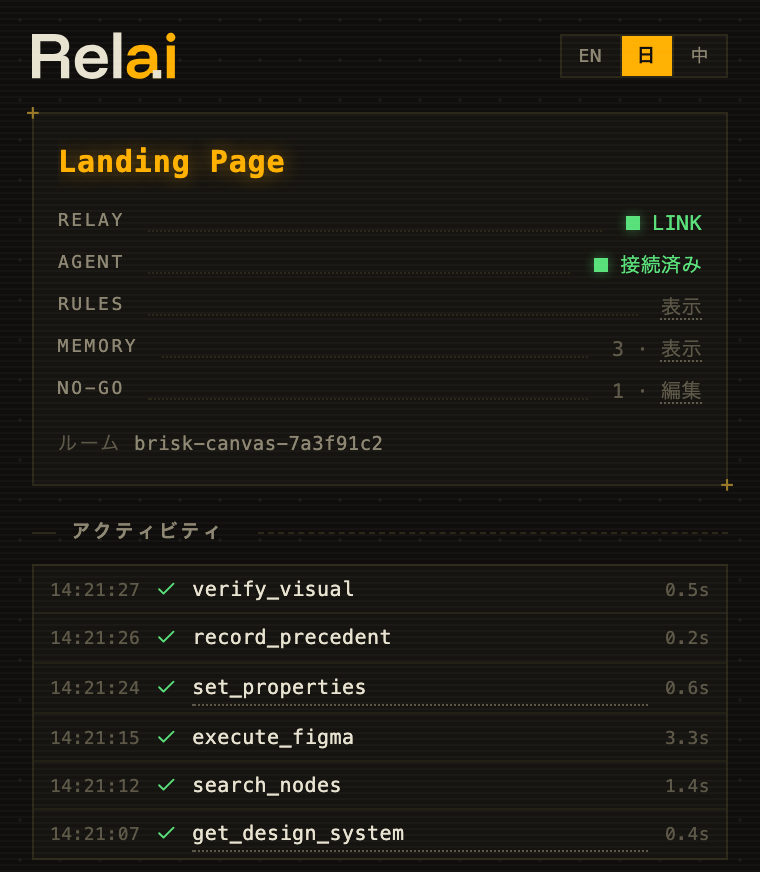
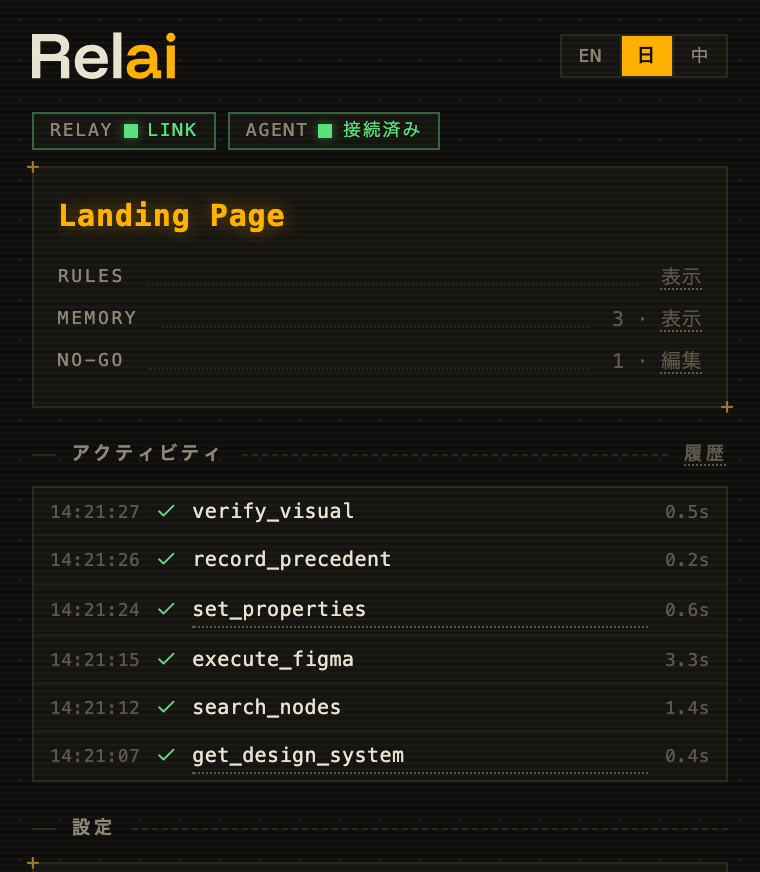
Release 0.5.0
Claude-Session: https://claude.ai/code/session_01LE9DxpFc66NXBEVTWs7co9

diff --git a/site/src/lib/translations.ts b/site/src/lib/translations.ts
@@ -1,6 +1,6 @@
 import type { Language } from './i18n';
 
-export const VERSION = 'v0.4.2';
+export const VERSION = 'v0.5.0';
 
 export const translations = {
   en: {
@@ -64,12 +64,12 @@ export const translations = {
     craft: {
       eyebrow: 'CRAFT',
       title: 'Why the results come out better.',
-      body: 'Connecting an AI to Figma is the easy part. Most of Relai is the unglamorous work that decides whether the output is production-grade or plausible-looking noise — and eighty-seven tests written to break it gate every release that touches logic.',
+      body: 'Connecting an AI to Figma is the easy part. Most of Relai is the unglamorous work that decides whether the output is production-grade or plausible-looking noise — and ninety-eight tests written to break it gate every release that touches logic.',
       items: [
-        { kicker: 'pitfalls', tag: 'RAW ERROR + HINT', title:'The minefield, mapped', body: 'The Plugin API is full of traps. Relai ships 25 of them, learned in production — trip one, and the raw error comes back with the fix attached; the same registry becomes the cheat sheet the AI reads before writing code.', artifact: '✗ cannot write to node with unloaded font\n  hint: await figma.loadFontAsync(node.fontName)\n        before editing text — new TextNodes\n        default to Inter Regular' },
+        { kicker: 'pitfalls', tag: 'RAW ERROR + HINT', title:'The minefield, mapped', body: 'The Plugin API is full of traps. Relai ships 30 of them, learned in production — trip one, and the raw error comes back with the fix attached; the same registry becomes the cheat sheet the AI reads before writing code.', artifact: '✗ cannot write to node with unloaded font\n  hint: await figma.loadFontAsync(node.fontName)\n        before editing text — new TextNodes\n        default to Inter Regular' },
         { kicker: 'verification', tag: 'RECEIPT', title:'It checks its own work', body: 'After a write, the AI looks: screenshot, compare against intent, re-read the result. The difference between “done” and “actually done”.', rows: ['set_properties · 24 nodes · 0.6s ✓', 'export_asset · 1 png ✓', 'verify_visual · match ✓'] },
         { kicker: 'conventions', tag: 'CARRIED BY THE FILE', title:'Your system comes first', body: 'Before building, the AI inventories the file — and the rules you store in the file itself ride into its context: naming, token routing, no-go zones, your precedents. It builds from your components, not near-copies.', artifact: '# conventions — carried by the file\n· colors route through Theme tokens, no raw hex\n· props camelCase · states hovered/pressed/…\n· never detach; reuse atoms from /components\n# memory — precedents, e.g.\n· "KARTE Badge border=1 is intent"' },
-        { kicker: 'navigation', tag: 'TOOL RESULT', title:'A map, not a maze', body: 'Thirty-two tools, each answering with a summary, honest notes on what got truncated, and a recommended next step. The AI arrives briefed, too — eleven skills as MCP prompts, your own from `~/.figma-relai/skills`, the whole contract as a `manifest` regenerated from running code, and one `doctor` command that diagnoses the chain end to end.', artifact: '{\n  "summary": "3 pages · 45 component sets",\n  "note": "components truncated (top 40)",\n  "recommended_next": "get_node_details\n    on the set you plan to extend"\n}' }
+        { kicker: 'navigation', tag: 'TOOL RESULT', title:'A map, not a maze', body: 'Thirty-three tools, each answering with a summary, honest notes on what got truncated, and a recommended next step. The AI arrives briefed, too — eleven skills as MCP prompts, your own from `~/.figma-relai/skills`, the whole contract as a `manifest` regenerated from running code, and one `doctor` command that diagnoses the chain end to end.', artifact: '{\n  "summary": "3 pages · 45 component sets",\n  "note": "components truncated (top 40)",\n  "recommended_next": "get_node_details\n    on the set you plan to extend"\n}' }
       ]
     },
     outlook: {
@@ -207,12 +207,12 @@ export const translations = {
     craft: {
       eyebrow: 'CRAFT',
       title: '結果の質は、地味な作り込みで決まる。',
-      body: 'AIをFigmaにつなぐこと自体は簡単です。Relaiの中身の大半は、出力を「それっぽい何か」で終わらせないための、目立たない作り込みです。ロジックに触れるリリースは、87項目の意地悪な検査が門番をしています。',
+      body: 'AIをFigmaにつなぐこと自体は簡単です。Relaiの中身の大半は、出力を「それっぽい何か」で終わらせないための、目立たない作り込みです。ロジックに触れるリリースは、98項目の意地悪な検査が門番をしています。',
       items: [
-        { kicker: 'pitfalls', tag: 'RAW ERROR + HINT', title:'落とし穴には、地図がある。', body: 'Plugin APIは落とし穴だらけです。Relaiには実際の運用で踏んだ25件が同梱されています。踏めば、生のエラーに解決策が添えられて返ってきます。同じ一覧は、AIがコードを書く前に読むチートシートにもなります。', artifact: '✗ cannot write to node with unloaded font\n  hint: await figma.loadFontAsync(node.fontName)\n        before editing text — new TextNodes\n        default to Inter Regular' },
+        { kicker: 'pitfalls', tag: 'RAW ERROR + HINT', title:'落とし穴には、地図がある。', body: 'Plugin APIは落とし穴だらけです。Relaiには実際の運用で踏んだ30件が同梱されています。踏めば、生のエラーに解決策が添えられて返ってきます。同じ一覧は、AIがコードを書く前に読むチートシートにもなります。', artifact: '✗ cannot write to node with unloaded font\n  hint: await figma.loadFontAsync(node.fontName)\n        before editing text — new TextNodes\n        default to Inter Regular' },
         { kicker: 'verification', tag: 'RECEIPT', title:'書いたら、見て確かめる。', body: '書き込んだら、見て確かめます。スクリーンショット、意図との見比べ、結果の読み直し。「終わった」と「本当に終わった」の差は、ここで生まれます。', rows: ['set_properties · 24 nodes · 0.6s ✓', 'export_asset · 1 png ✓', 'verify_visual · match ✓'] },
         { kicker: 'conventions', tag: 'CARRIED BY THE FILE', title:'まず、手元のシステムから。', body: '構築の前に、AIはまずファイルを調べます。ファイル自身に保存されたルールも、そのままコンテキストに入ります。命名、トークンの通し方、立入禁止、下した判例。似た見た目の描き直しではなく、手元のコンポーネントから組み立てます。', artifact: '# conventions — carried by the file\n· colors route through Theme tokens, no raw hex\n· props camelCase · states hovered/pressed/…\n· never detach; reuse atoms from /components\n# memory — precedents, e.g.\n· "KARTE Badge border=1 is intent"' },
-        { kicker: 'navigation', tag: 'TOOL RESULT', title:'結果には、次の一手がついてくる。', body: '32個のツールは、どれも要約・省略箇所の正直な注記・推奨される次の一手を添えて答えます。しかもAIは、下調べ済みで現場に来ます。11本のスキルがMCPプロンプトとして同梱され、自作スキルは`~/.figma-relai/skills`から読み込まれ、契約の全体は実行コードから再生成される`manifest`になっています。調子が悪ければ、`doctor`一発で診断です。', artifact: '{\n  "summary": "3 pages · 45 component sets",\n  "note": "components truncated (top 40)",\n  "recommended_next": "get_node_details\n    on the set you plan to extend"\n}' }
+        { kicker: 'navigation', tag: 'TOOL RESULT', title:'結果には、次の一手がついてくる。', body: '33個のツールは、どれも要約・省略箇所の正直な注記・推奨される次の一手を添えて答えます。しかもAIは、下調べ済みで現場に来ます。11本のスキルがMCPプロンプトとして同梱され、自作スキルは`~/.figma-relai/skills`から読み込まれ、契約の全体は実行コードから再生成される`manifest`になっています。調子が悪ければ、`doctor`一発で診断です。', artifact: '{\n  "summary": "3 pages · 45 component sets",\n  "note": "components truncated (top 40)",\n  "recommended_next": "get_node_details\n    on the set you plan to extend"\n}' }
       ]
     },
     outlook: {
@@ -350,12 +350,12 @@ export const translations = {
     craft: {
       eyebrow: 'CRAFT',
       title: '结果更好，是有原因的。',
-      body: '把AI接到Figma上并不难。Relai的大部分工作，是那些决定输出到底是生产级、还是"看着像回事的噪音"的朴素功夫 —— 87道故意找茬的检查,守在每次触及逻辑的发布之前。',
+      body: '把AI接到Figma上并不难。Relai的大部分工作，是那些决定输出到底是生产级、还是"看着像回事的噪音"的朴素功夫 —— 98道故意找茬的检查,守在每次触及逻辑的发布之前。',
       items: [
-        { kicker: 'pitfalls', tag: 'RAW ERROR + HINT', title:'雷区，已绘制成图。', body: 'Plugin API处处是坑。Relai内置了25条生产环境踩出来的 —— 一旦踩中,原始报错连同解法一起返回;同一份清单,就是AI写代码前要读的速查表。', artifact: '✗ cannot write to node with unloaded font\n  hint: await figma.loadFontAsync(node.fontName)\n        before editing text —— new TextNodes\n        default to Inter Regular' },
+        { kicker: 'pitfalls', tag: 'RAW ERROR + HINT', title:'雷区，已绘制成图。', body: 'Plugin API处处是坑。Relai内置了30条生产环境踩出来的 —— 一旦踩中,原始报错连同解法一起返回;同一份清单,就是AI写代码前要读的速查表。', artifact: '✗ cannot write to node with unloaded font\n  hint: await figma.loadFontAsync(node.fontName)\n        before editing text —— new TextNodes\n        default to Inter Regular' },
         { kicker: 'verification', tag: 'RECEIPT', title:'自己的活，自己验。', body: '写完就看:截图、对照意图、重读结果。"做完了"和"真的做完了"的差别,就在这里。', rows: ['set_properties · 24 nodes · 0.6s ✓', 'export_asset · 1 png ✓', 'verify_visual · match ✓'] },
         { kicker: 'conventions', tag: 'CARRIED BY THE FILE', title:'先学你的系统。', body: '动手之前,AI先盘点文件 —— 你存在文件里的规矩直接进入它的上下文:命名、Token路径、禁区、你的判例。它从你的组件出发构建,而不是照着画一个像的。', artifact: '# conventions —— carried by the file\n· colors route through Theme tokens, no raw hex\n· props camelCase · states hovered/pressed/…\n· never detach; reuse atoms from /components\n# memory — precedents, e.g.\n· "KARTE Badge border=1 is intent"' },
-        { kicker: 'navigation', tag: 'TOOL RESULT', title:'给的是路标，不是迷宫。', body: '32个工具,每个都带着摘要、对截断之处的诚实标注、建议的下一步来回答。而且AI是备过课进场的 —— 11份skill作为MCP prompts内置,你自己写的从`~/.figma-relai/skills`装载,整套契约是随构建从运行代码重新生成的`manifest`;不对劲时,一条`doctor`命令端到端诊断。', artifact: '{\n  "summary": "3 pages · 45 component sets",\n  "note": "components truncated (top 40)",\n  "recommended_next": "get_node_details\n    on the set you plan to extend"\n}' }
+        { kicker: 'navigation', tag: 'TOOL RESULT', title:'给的是路标，不是迷宫。', body: '33个工具,每个都带着摘要、对截断之处的诚实标注、建议的下一步来回答。而且AI是备过课进场的 —— 11份skill作为MCP prompts内置,你自己写的从`~/.figma-relai/skills`装载,整套契约是随构建从运行代码重新生成的`manifest`;不对劲时,一条`doctor`命令端到端诊断。', artifact: '{\n  "summary": "3 pages · 45 component sets",\n  "note": "components truncated (top 40)",\n  "recommended_next": "get_node_details\n    on the set you plan to extend"\n}' }
       ]
     },
     outlook: {

diff --git a/packages/relay/src/index.ts b/packages/relay/src/index.ts
@@ -14,7 +14,7 @@ const PORT = parseInt(process.env.PORT || "9055");
 const HOST = process.env.HOST || "127.0.0.1";
 
 const core = new RelayCore<ServerWebSocket<unknown>>({
-  version: "0.4.2",
+  version: "0.5.0",
   log: (msg) => console.log(msg),
 });
 

diff --git a/CHANGELOG.md b/CHANGELOG.md
@@ -1,5 +1,17 @@
 # Changelog
 
+## 0.5.0
+
+The law gets a home. One designer usually runs one product; its files share the same rules — and Figma silently discards file-carried law on every branch→main merge. This release answers both.
+
+- **Kits** (`manage_rulesets`, the 33rd tool). Save a file's rules under a name; other files follow it. A followed file that opens with its law wiped heals — one click, or automatically with the kit's auto-restore switch on. Drift never resolves itself: update (kit→file) and publish (file→kit) both wait for you. Promote a single precedent into the kit (↑ in the MEMORY list) and every follower inherits it. Export/import as a markdown package. Choosing is exclusive and visible: a radio list with "follow none" as a first-class option, the followed kit unfolding in place.
+- **The file speaks in moments, not vocabulary.** Three cards signed `FILE ›`, built like the approval card: "My rules are gone — put them back from “gin”?" · "My rules differ from “gin” now." · "I have no rules yet. Follow “gin”?" One question at a time, in your words, using the kit's name instead of concepts. The panel's steady state teaches nothing and needs nothing learned.
+- **Session history.** Every write lands in a per-machine timeline (last 500): grouped by session, click a row to jump to the layer, bulk operations flagged. "What did the agent touch that day" survives past the live feed.
+- **Rule proposals.** When the agent reads an enforceable sentence in your conventions ("never touch the Cover page"), it can propose the promotion — a card with the quoted reason; the guard turns on only when you accept, and the acceptance is recorded as a precedent.
+- **Panel reorganized by who the information belongs to.** Session plumbing became two quiet pills (RELAY · AGENT); the file card carries the file's name and its law, with the rules' origin as a label on the RULES row (`RULES  gin · view`); the room moved next to Disconnect. Empty rules now show "add" with guidance instead of hiding the row. A gentle check-up reminder appears when the last full audit is over a week old.
+- **CJK input fix:** the IME's conversion-Enter no longer triggers save in the kit and precedent inputs.
+- Skills teach the new machinery in-band; `manage_variables action:snapshot` pairs with kits for before/after accounting.
+
 ## 0.4.2
 
 Everything in this release was harvested from one long day of real design-system surgery — each fix is a scar with a story.

diff --git a/README.ja.md b/README.ja.md
@@ -83,6 +83,8 @@ file       precedent attached — "…is on purpose" · the edit backs off
 
 パネルの MEMORY 行に全件が並び、いつでも削除できます。黙って記録されるものはありません。
 
+**キット。**ひとりのデザイナーはたいてい一つのプロダクトを見ていて、そのファイルたちは同じ規約を共有します。このファイルの規約に名前を付けてキットとして保存すれば、他のファイルがフォローできます。Figma はブランチのマージでファイル持ちの規約を落としますが、フォロー中のキットがそれを戻します。ワンクリックで、あるいはそのキットの自動復元をオンにしておけば自動で。
+
 **立入禁止(NO-GO)**はページごと囲います。ブランドのマスター、法務、もうピクセル単位で完成しているあのページ。囲ったページへの書き込みは実行の手前で拒否され、理由が記録に残ります。囲いを編集できるのはデザイナーだけです。
 
 **確認**は 4 段階のレベルです(OPEN · RISK · BULK · ALL)。既定の RISK では、危険な操作だけが確認を求めます(変数/スタイルの削除、detach、flatten)。それ以外は止まりません。パネルから決めるもの。AI には動かせません。
@@ -98,7 +100,7 @@ file       precedent attached — "…is on purpose" · the edit backs off
 ```
 AI (any MCP client)
   ↕ stdio
-MCP server            32 tools · analysis · verification
+MCP server            33 tools · analysis · verification
   (embedded relay)    WebSocket room hub on 127.0.0.1:9055
   ↕ WebSocket
 Figma plugin          executes Plugin API calls
@@ -118,7 +120,7 @@ Figma plugin          executes Plugin API calls
 | 読み取り | `get_node_data`(summary / tree / full / css / variables) |
 | 作成・編集 | `create_node` · `set_properties` · `set_text` · `edit_structure` |
 | コンポーネント | `manage_components` |
-| デザインシステム | `get_design_system` · `manage_variables` · `manage_styles` · `import_from_library` · `manage_conventions` |
+| デザインシステム | `get_design_system` · `manage_variables` · `manage_styles` · `import_from_library` · `manage_conventions` · `manage_rulesets` |
 | ドキュメント | `manage_pages` · `navigate` |
 | アセット | `export_asset` · `add_image` |
 | 注釈 | `annotate` |

diff --git a/README.md b/README.md
@@ -83,6 +83,8 @@ file       precedent attached — "…is on purpose" · the edit backs off
 
 The panel's Memory row lists every entry; delete any of them any time. Nothing is recorded silently.
 
+**Kits.** One designer usually runs one product, and its files share the same law. Save this file’s rules under a name and other files can follow it. Figma drops file-carried law on branch merges; a followed kit puts it back — one click, or automatically if you flip that kit’s auto-restore on.
+
 **AI no-go zones** fence off whole pages — brand masters, legal, the one that is already pixel-perfect. Writes into a guarded page are rejected before they run, with the reason on the receipt, and only you edit the guard list.
 
 **Confirmation** is one level with four stops — OPEN · RISK · BULK · ALL. At RISK, the default, only dangerous operations ask (deleting variables or styles, detach, flatten); everything else keeps moving. Set it in the panel; agents can't move it.
@@ -98,7 +100,7 @@ The plugin is the designer's side of the deal: a live activity feed of everythin
 ```
 AI (any MCP client)
   ↕ stdio
-MCP server            32 tools · analysis · verification
+MCP server            33 tools · analysis · verification
   (embedded relay)    WebSocket room hub on 127.0.0.1:9055
   ↕ WebSocket
 Figma plugin          executes Plugin API calls
@@ -118,7 +120,7 @@ Ports are fixed by Figma's plugin sandbox: the manifest allowlists `ws://localho
 | Read | `get_node_data` (summary / tree / full / css / variables) |
 | Create & edit | `create_node` · `set_properties` · `set_text` · `edit_structure` |
 | Components | `manage_components` |
-| Design system | `get_design_system` · `manage_variables` · `manage_styles` · `import_from_library` · `manage_conventions` |
+| Design system | `get_design_system` · `manage_variables` · `manage_styles` · `import_from_library` · `manage_conventions` · `manage_rulesets` |
 | Document | `manage_pages` · `navigate` |
 | Assets | `export_asset` · `add_image` |
 | Annotations | `annotate` |

diff --git a/README.zh.md b/README.zh.md
@@ -83,6 +83,8 @@ file       precedent attached — "…is on purpose" · the edit backs off
 
 面板的 MEMORY 行列出全部条目，随时可删。没有任何东西会被悄悄记录。
 
+**Kit。**一个设计师通常照看一个产品，它的文件们共享同一套规矩。把这个文件的规矩存成一个有名字的 kit，其他文件就能跟随它。Figma 在分支合并时会丢掉文件携带的规矩；跟随中的 kit 会把它放回来——点一下，或者把那套 kit 的自动恢复拨开，连点都不用。
+
 **AI 禁区**整页圈起来——品牌母版、法务页、已经像素级完美的那一页。写入被圈的页面会在碰到画布之前被拒，原因写在回执里，而守卫名单只有你能改。
 
 **确认**是一个四档的级别——OPEN · RISK · BULK · ALL。默认的 RISK 档只有危险操作才会问（删变量或样式、detach、flatten），其余照常放行。档位在面板里定，agent 动不了。
@@ -98,7 +100,7 @@ file       precedent attached — "…is on purpose" · the edit backs off
 ```
 AI (any MCP client)
   ↕ stdio
-MCP server            32 tools · analysis · verification
+MCP server            33 tools · analysis · verification
   (embedded relay)    WebSocket room hub on 127.0.0.1:9055
   ↕ WebSocket
 Figma plugin          executes Plugin API calls
@@ -118,7 +120,7 @@ Figma plugin          executes Plugin API calls
 | 读取 | `get_node_data`（summary / tree / full / css / variables） |
 | 创建与编辑 | `create_node` · `set_properties` · `set_text` · `edit_structure` |
 | 组件 | `manage_components` |
-| 设计系统 | `get_design_system` · `manage_variables` · `manage_styles` · `import_from_library` · `manage_conventions` |
+| 设计系统 | `get_design_system` · `manage_variables` · `manage_styles` · `import_from_library` · `manage_conventions` · `manage_rulesets` |
 | 文档 | `manage_pages` · `navigate` |
 | 资产 | `export_asset` · `add_image` |
 | 注释 | `annotate` |
